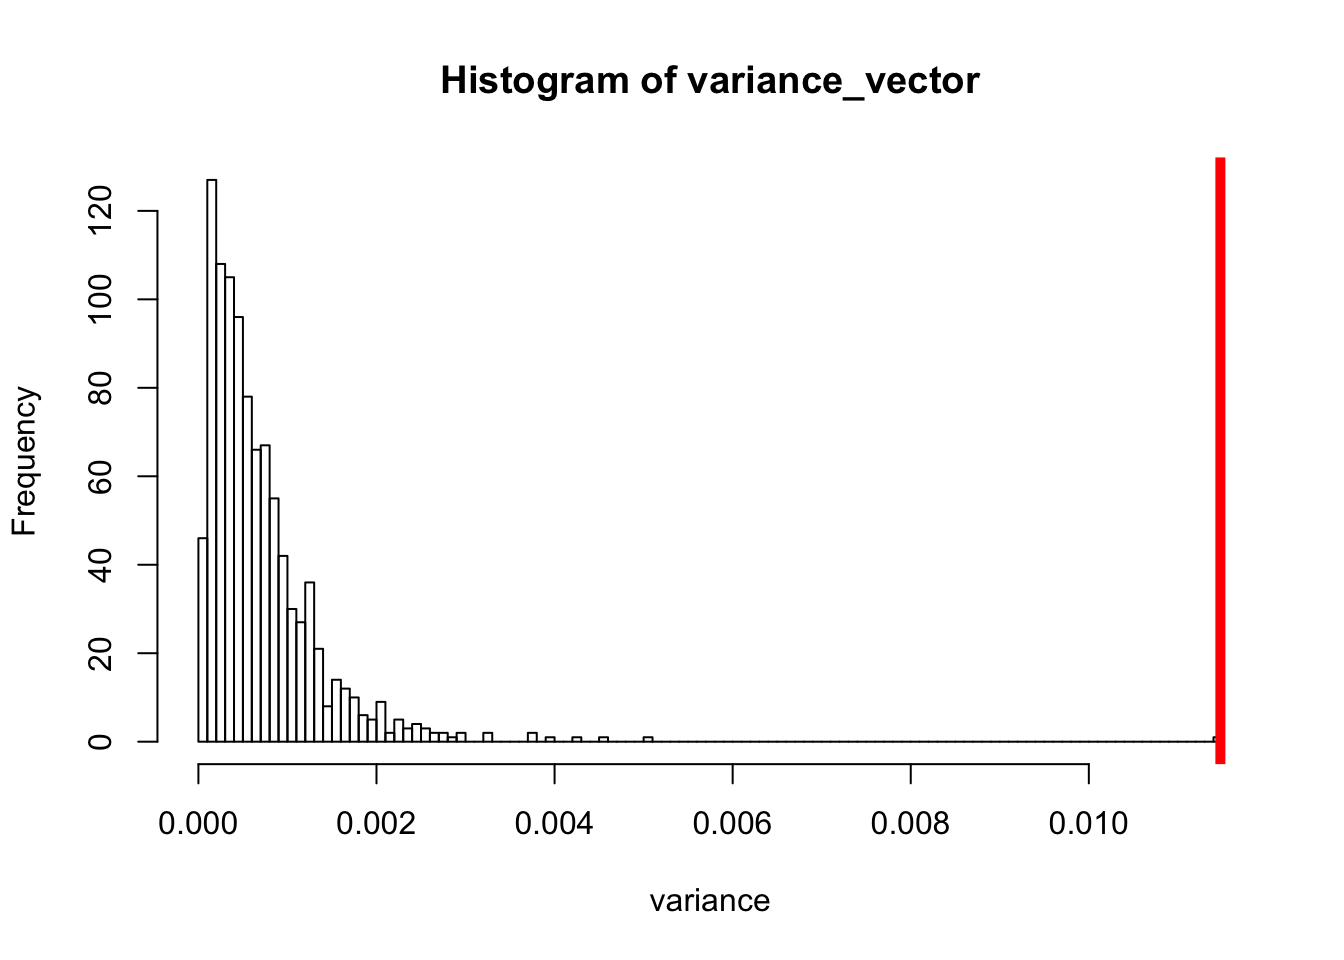
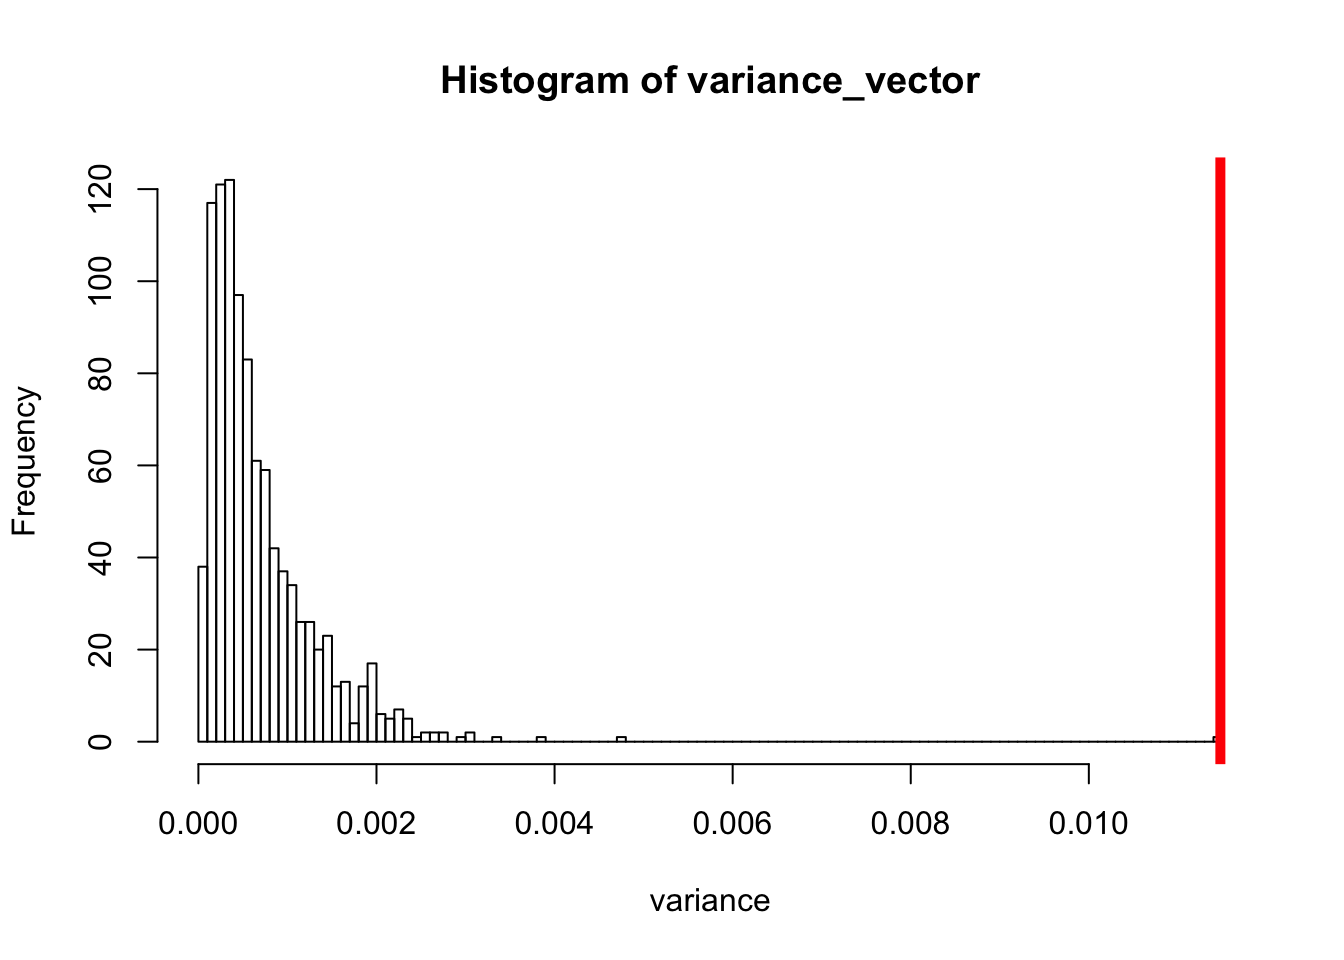
add bioinformatics batch

diff --git a/docs/articles/Intermediate.html b/docs/articles/Intermediate.html
@@ -99,7 +99,7 @@
     <div class="page-header toc-ignore">
       <h1>Intermediate Phylotranscriptomics Analyses</h1>
             
-            <h4 class="date">2020-03-18</h4>
+            <h4 class="date">2020-04-09</h4>
       
       <small class="dont-index">Source: <a href="https://github.com/HajkD/myTAI/blob/master/vignettes/Intermediate.Rmd"><code>vignettes/Intermediate.Rmd</code></a></small>
       <div class="hidden name"><code>Intermediate.Rmd</code></div>
@@ -156,7 +156,7 @@
 <pre><code>#&gt; Plot signature: ' TAI ' and test statistic: ' FlatLineTest ' running  1000  permutations.</code></pre>
 <p><img src="Intermediate_files/figure-html/unnamed-chunk-4-1.png" width="672"></p>
 <pre><code>#&gt;   Zygote Quadrant Globular    Heart  Torpedo     Bent   Mature 
-#&gt; 3.471930 3.520489 3.490690 3.481371 3.464277 3.497790 3.491835</code></pre>
+#&gt; 3.526302 3.551521 3.571757 3.569260 3.586041 3.561174 3.506891</code></pre>
 <pre><code>  Zygote Quadrant Globular    Heart  Torpedo     Bent   Mature 
 3.543700 3.573999 3.554707 3.543376 3.582905 3.562813 3.523409 </code></pre>
 <p>Visualization:</p>
@@ -167,17 +167,17 @@
 <p>Now we investigate the variance of the two observed patterns.</p>
 <pre><code>#&gt; [1] 0.01147725</code></pre>
 <pre><code>[1] 0.01147725</code></pre>
-<pre><code>#&gt; [1] 0.0003395862</code></pre>
+<pre><code>#&gt; [1] 0.0007691838</code></pre>
 <pre><code>[1] 0.0004102549</code></pre>
 <p>We observe that the variance of the randomly assigned TAI profile is much smaller than the variance of the correctly assigned TAI profile. Here we use the variance to quantify the <em>flatness</em> of a given TAI profile. In theory the variance of a perfect flat line would be zero. So any TAI profile that is close to zero would resemble a flat line. But how exactly are the variances of randomly assigned TAI profiles distributed? For this purpose the <code><a href="../reference/bootMatrix.html">bootMatrix()</a></code> function was implemented.</p>
 <p>The <code><a href="../reference/bootMatrix.html">bootMatrix()</a></code> takes an PhyloExpressionSet or DivergenceExpressionSet as input and computes N <code>TAI</code> or <code>TDI</code> profiles based on randomly assigned Phylostrata or Divergence-Strata.</p>
 <pre><code>#&gt;     Zygote Quadrant Globular    Heart  Torpedo     Bent   Mature
-#&gt; 1 3.540935 3.541815 3.494289 3.495357 3.480051 3.487155 3.593288
-#&gt; 2 3.502760 3.475847 3.475228 3.508719 3.523737 3.501697 3.486334
-#&gt; 3 3.504706 3.514717 3.534779 3.530594 3.506273 3.450425 3.453790
-#&gt; 4 3.488744 3.487787 3.516212 3.531963 3.534512 3.548496 3.598937
-#&gt; 5 3.549404 3.549214 3.531026 3.542789 3.578889 3.573318 3.495525
-#&gt; 6 3.473233 3.463708 3.485008 3.463751 3.480082 3.492535 3.525989</code></pre>
+#&gt; 1 3.600911 3.594092 3.615442 3.621655 3.626994 3.637078 3.523760
+#&gt; 2 3.616794 3.597858 3.591391 3.599011 3.596153 3.611294 3.559777
+#&gt; 3 3.495671 3.492883 3.538363 3.533641 3.530575 3.515637 3.558982
+#&gt; 4 3.498062 3.461715 3.544618 3.546660 3.541741 3.550513 3.527061
+#&gt; 5 3.536697 3.554042 3.561644 3.560337 3.554126 3.565469 3.567912
+#&gt; 6 3.538237 3.534226 3.527155 3.537480 3.537857 3.513950 3.457902</code></pre>
 <pre><code>    Zygote Quadrant Globular    Heart  Torpedo     Bent   Mature
 1 3.578000 3.577732 3.552230 3.556756 3.555627 3.553580 3.510978
 2 3.590339 3.564544 3.589012 3.598754 3.583721 3.597553 3.633530
@@ -215,12 +215,12 @@
 <p><img src="Intermediate_files/figure-html/unnamed-chunk-12-1.png" width="672"></p>
 <pre><code>#&gt; summary statistics
 #&gt; ------
-#&gt; min:  1.307159e-05   max:  0.005067585 
-#&gt; median:  0.000525259 
-#&gt; mean:  0.0006882615 
-#&gt; estimated sd:  0.0006078582 
-#&gt; estimated skewness:  2.281592 
-#&gt; estimated kurtosis:  11.34117</code></pre>
+#&gt; min:  1.812643e-05   max:  0.004799988 
+#&gt; median:  0.0005047622 
+#&gt; mean:  0.0006887429 
+#&gt; estimated sd:  0.0005782716 
+#&gt; estimated skewness:  1.806856 
+#&gt; estimated kurtosis:  7.892989</code></pre>
 <p>Based on the observation that a gamma distribution is a suitable fit for <code>variance_vector</code>, we can now estimate the parameters of the gamma distribution that fits the data.</p>
 <div class="sourceCode" id="cb20"><pre class="sourceCode r"><code class="sourceCode r"><a class="sourceLine" id="cb20-1" data-line-number="1"><span class="co"># estimate the parameters: shape and rate using 'moment matching estimation'</span></a>
 <a class="sourceLine" id="cb20-2" data-line-number="2">gamma_MME &lt;-<span class="st"> </span>fitdistrplus<span class="op">::</span><span class="kw"><a href="https://rdrr.io/pkg/fitdistrplus/man/fitdist.html">fitdist</a></span>(variance_vector,<span class="dt">distr =</span> <span class="st">"gamma"</span>, <span class="dt">method =</span> <span class="st">"mme"</span>)</a>
@@ -250,7 +250,7 @@
 <p>Using the gamma distribution with estimated parameters the corresponding p-value of <code>var_real</code> can be computed.</p>
 <div class="sourceCode" id="cb21"><pre class="sourceCode r"><code class="sourceCode r"><a class="sourceLine" id="cb21-1" data-line-number="1"><span class="co"># p-value of var_real</span></a>
 <a class="sourceLine" id="cb21-2" data-line-number="2"><span class="kw"><a href="https://rdrr.io/r/stats/GammaDist.html">pgamma</a></span>(var_real, <span class="dt">shape =</span> shape,<span class="dt">rate =</span> rate, <span class="dt">lower.tail =</span> <span class="ot">FALSE</span>)</a></code></pre></div>
-<pre><code>#&gt; [1] 1.361756e-09</code></pre>
+<pre><code>#&gt; [1] 2.292628e-10</code></pre>
 <p>Hence, the variance of the correct TAI profile significantly deviates from random TAI profiles and this allows us to assume that the underlying TAI profile captures a real evolutionary signal.</p>
 </div>
 <div id="using-the-flatlinetest-function" class="section level3">

diff --git a/docs/articles/Taxonomy.html b/docs/articles/Taxonomy.html
@@ -99,7 +99,7 @@
     <div class="page-header toc-ignore">
       <h1>Retrieving Taxonomic Information</h1>
             
-            <h4 class="date">2020-03-18</h4>
+            <h4 class="date">2020-04-09</h4>
       
       <small class="dont-index">Source: <a href="https://github.com/HajkD/myTAI/blob/master/vignettes/Taxonomy.Rmd"><code>vignettes/Taxonomy.Rmd</code></a></small>
       <div class="hidden name"><code>Taxonomy.Rmd</code></div>
@@ -117,8 +117,7 @@
 <a class="sourceLine" id="cb1-4" data-line-number="4"><span class="co"># After generating your key set it as ENTREZ_KEY in .Renviron.</span></a>
 <a class="sourceLine" id="cb1-5" data-line-number="5"><span class="co"># ENTREZ_KEY='youractualkeynotthisstring'</span></a>
 <a class="sourceLine" id="cb1-6" data-line-number="6"><span class="co"># For that, use usethis::edit_r_environ()</span></a>
-<a class="sourceLine" id="cb1-7" data-line-number="7">usethis<span class="op">::</span><span class="kw"><a href="https://usethis.r-lib.org/reference/edit.html">edit_r_environ</a></span>()</a>
-<a class="sourceLine" id="cb1-8" data-line-number="8"></a></code></pre></div>
+<a class="sourceLine" id="cb1-7" data-line-number="7">usethis<span class="op">::</span><span class="kw"><a href="https://usethis.r-lib.org/reference/edit.html">edit_r_environ</a></span>()</a></code></pre></div>
 <div id="taxonomic-information-retrieval" class="section level2">
 <h2 class="hasAnchor">
 <a href="#taxonomic-information-retrieval" class="anchor"></a>Taxonomic Information Retrieval</h2>

diff --git a/docs/index.html b/docs/index.html
@@ -480,6 +480,7 @@
 <li><a href="https://travis-ci.org/HajkD/myTAI"><img src="https://travis-ci.org/HajkD/myTAI.svg?branch=master" alt="Travis-CI Build Status"></a></li>
 <li><a href="https://github.com/metacran/cranlogs.app"><img src="http://cranlogs.r-pkg.org/badges/myTAI" alt="rstudio mirror downloads"></a></li>
 <li><a href="https://github.com/metacran/cranlogs.app"><img src="http://cranlogs.r-pkg.org/badges/grand-total/myTAI" alt="rstudio mirror downloads"></a></li>
+<li><a href="https://academic.oup.com/bioinformatics/article/34/9/1589/4772684"><img src="https://img.shields.io/badge/Published%20in-Bioinformatics-126888.svg" alt="Paper link"></a></li>
 </ul>
 </div>
 </div>

diff --git a/docs/articles/Introduction.html b/docs/articles/Introduction.html
@@ -99,7 +99,7 @@
     <div class="page-header toc-ignore">
       <h1>Introduction to the myTAI Package</h1>
             
-            <h4 class="date">2020-03-18</h4>
+            <h4 class="date">2020-04-09</h4>
       
       <small class="dont-index">Source: <a href="https://github.com/HajkD/myTAI/blob/master/vignettes/Introduction.Rmd"><code>vignettes/Introduction.Rmd</code></a></small>
       <div class="hidden name"><code>Introduction.Rmd</code></div>

diff --git a/docs/articles/Advanced.html b/docs/articles/Advanced.html
@@ -99,7 +99,7 @@
     <div class="page-header toc-ignore">
       <h1>Advanced Phylotranscriptomics Analyses</h1>
             
-            <h4 class="date">2020-03-18</h4>
+            <h4 class="date">2020-04-09</h4>
       
       <small class="dont-index">Source: <a href="https://github.com/HajkD/myTAI/blob/master/vignettes/Advanced.Rmd"><code>vignettes/Advanced.Rmd</code></a></small>
       <div class="hidden name"><code>Advanced.Rmd</code></div>

diff --git a/docs/articles/Enrichment.html b/docs/articles/Enrichment.html
@@ -99,7 +99,7 @@
     <div class="page-header toc-ignore">
       <h1>Enrichment Analyses</h1>
             
-            <h4 class="date">2020-03-18</h4>
+            <h4 class="date">2020-04-09</h4>
       
       <small class="dont-index">Source: <a href="https://github.com/HajkD/myTAI/blob/master/vignettes/Enrichment.Rmd"><code>vignettes/Enrichment.Rmd</code></a></small>
       <div class="hidden name"><code>Enrichment.Rmd</code></div>

diff --git a/docs/articles/Expression.html b/docs/articles/Expression.html
@@ -100,7 +100,7 @@
       <h1>Gene Expression Analysis with <code>myTAI</code>
 </h1>
             
-            <h4 class="date">2020-03-18</h4>
+            <h4 class="date">2020-04-09</h4>
       
       <small class="dont-index">Source: <a href="https://github.com/HajkD/myTAI/blob/master/vignettes/Expression.Rmd"><code>vignettes/Expression.Rmd</code></a></small>
       <div class="hidden name"><code>Expression.Rmd</code></div>

diff --git a/README.md b/README.md
@@ -3,7 +3,7 @@
 [![Travis-CI Build Status](https://travis-ci.org/HajkD/myTAI.svg?branch=master)](https://travis-ci.org/HajkD/myTAI)
 [![rstudio mirror downloads](http://cranlogs.r-pkg.org/badges/myTAI)](https://github.com/metacran/cranlogs.app)
 [![rstudio mirror downloads](http://cranlogs.r-pkg.org/badges/grand-total/myTAI)](https://github.com/metacran/cranlogs.app)
- 
+[![Paper link](https://img.shields.io/badge/Published%20in-Bioinformatics-126888.svg)](https://academic.oup.com/bioinformatics/article/34/9/1589/4772684)  
 
 
 # Evolutionary Transcriptomics with R
